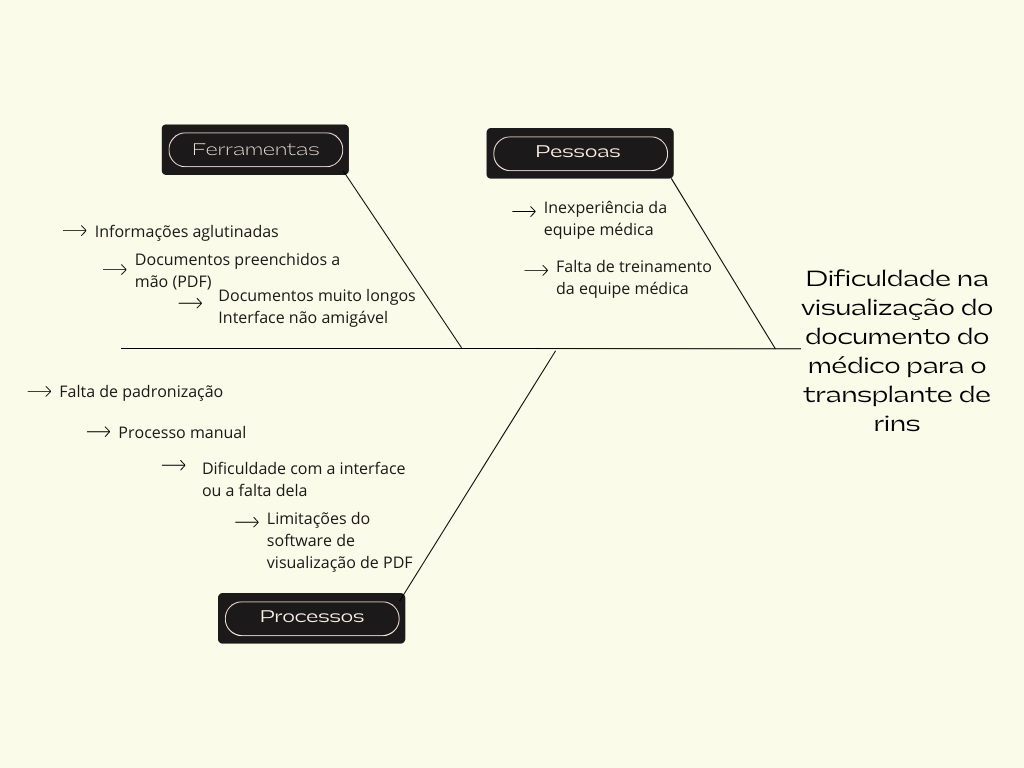
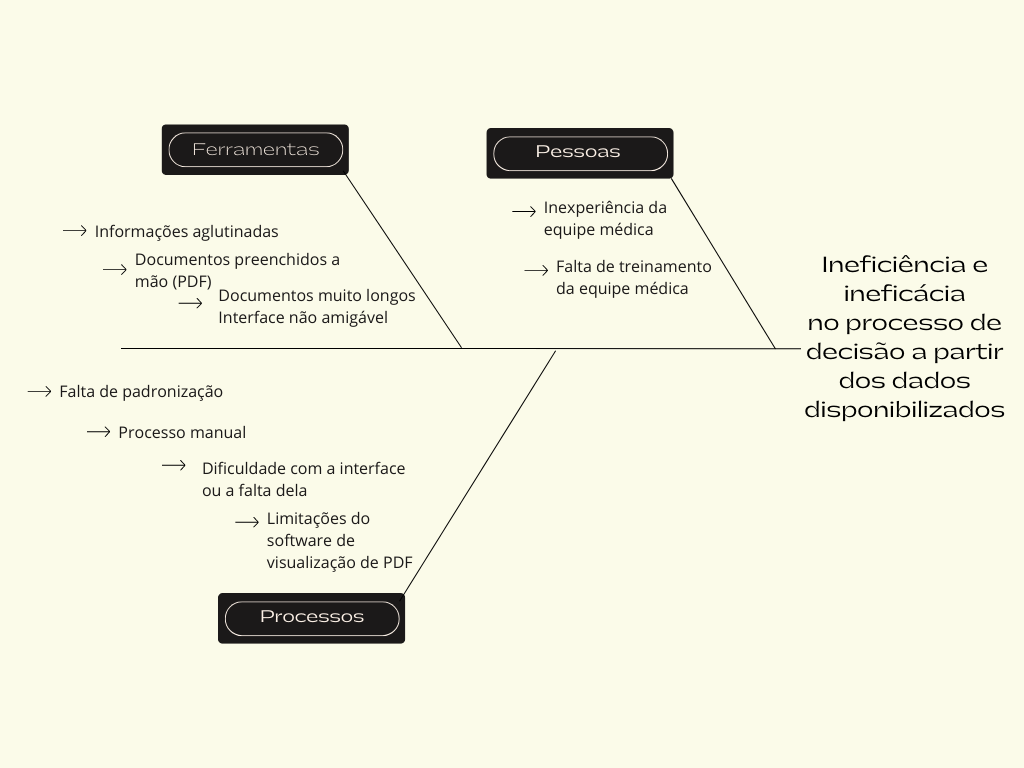
Adicionando processos aprendidos e novo diagrama de ishikawa

Changed region(s): [[0.7812, 0.3125, 0.9688, 0.5625]]

diff --git a/docs/visao-do-produto-e-projeto/licoes-aprendidas.md b/docs/visao-do-produto-e-projeto/licoes-aprendidas.md
@@ -3,3 +3,9 @@
 ## Unidade 1
 
 Dentre as lições aprendidas nessa unidade é importante citar a tomada de decisão para os processos de desenvolvimento de software. Conseguimos identificar e levantar as necessidades que o projeto vai exigir como a escolha de ciclos de vidas que melhor se encaixe no projeto, vale citar também a metodologia gamificada utilizada durante as aulas  que nos ajudou a entender e identificar todos os processos envolvendo ciclos de vidas onde também foi analisado as diferenças entres abordagens que são dirigidas a plano e ágeis, para o melhor entendimento das necessidades do projeto. Os conhecimentos absorvidos pela equipe durante as aulas foram essenciais para ter uma visão do produto da forma mais clara e eficaz. 
+
+## Unidade 2
+
+No segundo módulo da disciplina, a gente aprendeu um monte de coisas legais! Descobrimos como criar histórias de usuário, entender as regras de negócio e melhorar nossa forma de declarar os requisitos. Também aprendemos a organizar nossas tarefas usando um software chamado mural, que foi super útil pra visualizar e construir nosso backlog. Aprendemos a importância de analisar diferentes pontos de vista e chegar a um consenso, além de técnicas para verificar e validar nosso trabalho. Por fim, revisamos nossas tecnologias e nos atualizamos para ficar por dentro das melhores práticas. Essas lições nos deixaram mais preparados e eficientes para encarar projetos futuros.
+
+Resumindo, no segundo módulo da disciplina aprendemos sobre histórias de usuário, regras de negócio, como melhorar nossos requisitos e organizar nosso trabalho. Usamos um software bacana chamado mural, aprendemos a chegar a um acordo em grupo e verificamos nossa qualidade. Também atualizamos nossas tecnologias. 

diff --git a/docs/visao-do-produto-e-projeto/visao-do-produto.md b/docs/visao-do-produto-e-projeto/visao-do-produto.md
@@ -14,7 +14,7 @@ Em consequência, essa situação acaba gerando um grande impacto no tempo neces
 
 <center>
 
-![Diagrama de Ishikawa](../assets/visao-do-produto/Fishbone-Graph.png)
+![Diagrama de Ishikawa](../assets//entregas/unidade1/ishikawa/4.png)
 
 Figura 1 - Diagrama de Ishikawa (Fonte: Autor, 2023)
 
